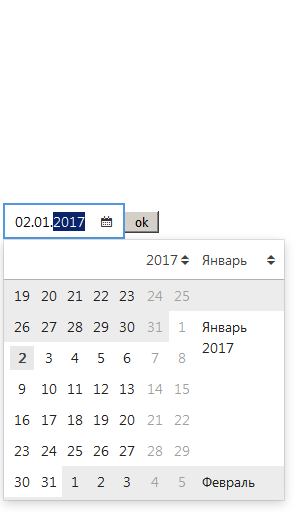
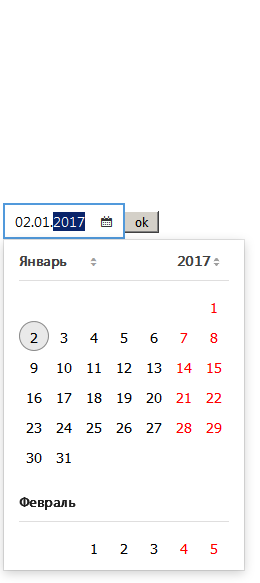
Updated screenshots

diff --git a/components/Calendar/Calendar.js b/components/Calendar/Calendar.js
@@ -28,7 +28,8 @@ export type State = {
   scrollPosition: number,
   months: CalendarMonth[],
   today: CalendarDate,
-  scrollDirection: 1 | -1
+  scrollDirection: 1 | -1,
+  scrollTarget: number
 };
 
 const getTodayDate = () => {
@@ -41,7 +42,13 @@ const getTodayDate = () => {
 };
 
 class Calendar extends React.Component<Props, State> {
-  _timeout;
+  _scrollAnimationTimeout;
+
+  _wheelEndTimeout;
+
+  _monthSelect;
+
+  _yearSelect;
 
   _animation = Animation();
 
@@ -59,13 +66,14 @@ class Calendar extends React.Component<Props, State> {
       scrollPosition: 0,
       months: CalendarUtils.getMonths(initialMonth, initialYear),
       today,
-      scrollDirection: 1
+      scrollDirection: 1,
+      scrollTarget: 0
     };
   }
 
   componentWillUnmount() {
-    if (this._timeout) {
-      clearTimeout(this._timeout);
+    if (this._scrollAnimationTimeout) {
+      clearTimeout(this._scrollAnimationTimeout);
     }
     if (this._animation.inProgress()) {
       this._animation.cancel();
@@ -123,7 +131,7 @@ class Calendar extends React.Component<Props, State> {
 
   _renderMonth([top, month]) {
     const isTopNegative = top <= 0;
-    const isHeaderSticked = isTopNegative && month.height > -top;
+    const isHeaderSticked = isTopNegative && month.height >= -top;
 
     const headerTop = isHeaderSticked
       ? Math.min(-top, month.height - config.MONTH_TITLE_HEIGHT)
@@ -138,6 +146,15 @@ class Calendar extends React.Component<Props, State> {
     const isYearVisible = month.isFirstInYear || isHeaderSticked;
     const yearTop =
       isHeaderSticked && !month.isLastInYear ? -headerTop - top : 0;
+
+    const monthSelectDisabled =
+      top > 40 ||
+      headerTop < 0 ||
+      headerTop >= month.height - config.MONTH_TITLE_HEIGHT;
+
+    const yearSelectDisabled =
+      top > 40 ||
+      (month.isLastInYear && top < -month.height + config.MONTH_TITLE_HEIGHT);
 
     const { minDate, maxDate } = this.props;
     return (
@@ -155,25 +172,25 @@ class Calendar extends React.Component<Props, State> {
         >
           <div className={classes.headerMonth}>
             <DateSelect
-              disabled={top > 25}
+              disabled={monthSelectDisabled}
               width={85}
               type="month"
               value={month.month}
               onChange={m => this.scrollToMonth(m, month.year)}
-              key={top}
+              ref={!monthSelectDisabled ? m => (this._monthSelect = m) : null}
             />
           </div>
           {isYearVisible && (
             <div className={classes.headerYear} style={{ top: yearTop }}>
               <DateSelect
-                disabled={top > 25}
+                disabled={yearSelectDisabled}
                 width={50}
                 type="year"
                 value={month.year}
                 minYear={minDate ? minDate.year : undefined}
                 maxYear={maxDate ? maxDate.year : undefined}
                 onChange={y => this.scrollToMonth(month.month, y)}
-                key={top}
+                ref={!yearSelectDisabled ? y => (this._yearSelect = y) : null}
               />
             </div>
           )}
@@ -207,28 +224,63 @@ class Calendar extends React.Component<Props, State> {
   _handleWheel = (event: SyntheticWheelEvent<HTMLDivElement>) => {
     event.preventDefault();
     const { pixelY } = normalizeWheel(event);
-    this._animation.animate(
-      pixelY,
-      deltaY => this.setState(CalendarUtils.applyDelta(deltaY)),
-      this._handleWheelEnd
+
+    this.setState(({ months, scrollPosition, scrollTarget }) => {
+      const targetPosition = CalendarUtils.calculateScrollPosition(
+        months,
+        scrollPosition,
+        pixelY
+      ).scrollPosition;
+      return { scrollTarget: targetPosition };
+    }, this._handleWheelEnd);
+
+    this._animation.animate(pixelY, deltaY =>
+      this.setState(CalendarUtils.applyDelta(deltaY))
     );
+
+    this._closeSelects();
   };
 
   _handleWheelEnd = () => {
-    if (this._timeout) {
-      clearTimeout(this._timeout);
+    if (this._wheelEndTimeout) {
+      clearTimeout(this._wheelEndTimeout);
     }
-    this._timeout = setTimeout(this._scrollToNearestWeek, 300);
+    this._wheelEndTimeout = setTimeout(this._scrollToNearestWeek, 300);
+  };
+
+  _handleScrollAnimationEnd = () => {
+    if (this._scrollAnimationTimeout) {
+      clearTimeout(this._scrollAnimationTimeout);
+    }
+    this._scrollAnimationTimeout = setTimeout(this._scrollToNearestWeek, 300);
+  };
+
+  _closeSelects = () => {
+    if (this._monthSelect) {
+      this._monthSelect.close();
+    }
+    if (this._yearSelect) {
+      this._yearSelect.close();
+    }
   };
 
   _scrollToNearestWeek = () => {
+    const { scrollTarget, scrollDirection } = this.state;
+
     const trasholdHeight = config.MONTH_TITLE_OFFSET_HEIGHT + config.DAY_HEIGHT;
-    if (this.state.scrollPosition < trasholdHeight) {
+
+    if (scrollTarget < trasholdHeight) {
       let targetPosition = 0;
-      if (this.state.scrollDirection < 0) {
+      if (scrollDirection < 0) {
         targetPosition = trasholdHeight;
       }
-      this._scrollTo(targetPosition);
+
+      this.setState({ scrollTarget: targetPosition }, () => {
+        const amount = scrollTarget - targetPosition;
+        this._animation.animate(amount, deltaY =>
+          this.setState(CalendarUtils.applyDelta(deltaY))
+        );
+      });
     }
   };
 
@@ -236,10 +288,10 @@ class Calendar extends React.Component<Props, State> {
     if (this._animation.inProgress()) {
       this._animation.finish();
     }
-    // After animation finish there could be _handleWheelEnd _timeout
+    // After animation finish there could be _handleScrollAnimationEnd _scrollAnimationTimeout
     // we have to remove it after _animation.finish
-    if (this._timeout) {
-      clearTimeout(this._timeout);
+    if (this._scrollAnimationTimeout) {
+      clearTimeout(this._scrollAnimationTimeout);
     }
 
     const minDate =
@@ -259,6 +311,11 @@ class Calendar extends React.Component<Props, State> {
     const currentMonth = this.state.months[1];
     const diffInMonths =
       currentMonth.month + currentMonth.year * 12 - month - year * 12;
+
+    if (diffInMonths === 0) {
+      this._scrollTo(0);
+      return;
+    }
 
     const maxMonthsToAdd = config.MAX_MONTHS_TO_APPEND_ON_SCROLL;
 

diff --git a/components/Calendar/CalendarUtils.js b/components/Calendar/CalendarUtils.js
@@ -6,27 +6,14 @@ import { CalendarDate } from './CalendarDate';
 import { CalendarMonth } from './CalendarMonth';
 import type { CalendarDateShape, State, Props } from './Calendar';
 
-export const applyDelta = (deltaY: number) => (
-  { scrollPosition, months }: State,
-  { minDate, maxDate }: Props
+export const calculateScrollPosition = (
+  months: CalendarMonth[],
+  scrollPosition: number,
+  deltaY: number
 ) => {
-  let nextScrollPosition = scrollPosition - deltaY;
   let scrollDirection = deltaY > 0 ? 1 : -1;
 
-  const isMinDateExceeded =
-    minDate &&
-    nextScrollPosition > 0 &&
-    minDate.year * 12 + minDate.month > months[0].year * 12 + months[0].month;
-
-  const isMaxDateExceeded =
-    maxDate &&
-    nextScrollPosition < 0 &&
-    maxDate.year * 12 + maxDate.month < months[2].year * 12 + months[2].month;
-
-  if (isMinDateExceeded || isMaxDateExceeded) {
-    return { scrollPosition: 0, scrollDirection };
-  }
-
+  let nextScrollPosition = scrollPosition - deltaY;
   let nextMonths = months;
 
   const firstMonth = months[0];
@@ -50,6 +37,28 @@ export const applyDelta = (deltaY: number) => (
     months: nextMonths,
     scrollDirection
   };
+};
+
+export const applyDelta = (deltaY: number) => (
+  { scrollPosition, months }: State,
+  { minDate, maxDate }: Props
+) => {
+  let scrollDirection = deltaY > 0 ? 1 : -1;
+  const isMinDateExceeded =
+    minDate &&
+    scrollDirection < 0 &&
+    minDate.year * 12 + minDate.month > months[0].year * 12 + months[0].month;
+
+  const isMaxDateExceeded =
+    maxDate &&
+    scrollDirection > 0 &&
+    maxDate.year * 12 + maxDate.month < months[2].year * 12 + months[2].month;
+
+  if (isMinDateExceeded || isMaxDateExceeded) {
+    return { scrollPosition: 0, scrollDirection };
+  }
+
+  return calculateScrollPosition(months, scrollPosition, deltaY);
 };
 
 export const isMonthVisible = (top: number, month: CalendarMonth) => {

diff --git a/gemini/datepicker.js b/gemini/datepicker.js
@@ -10,9 +10,13 @@ gemini.suite('DatePicker', suite => {
       actions.click(find('[class^="DatePicker-root"]'));
     })
     .capture('opened year', (actions, find) => {
-      actions.click(find('[class^="DateSelect-root"]'));
+      actions.click(
+        find('[class^="Calendar-headerYear"] [class^="DateSelect-root"]')
+      );
     })
     .capture('opened month', (actions, find) => {
-      actions.click(find('[class^="DateSelect-root"]:nth-child(3)'));
+      actions.click(
+        find('[class^="Calendar-headerMonth"] [class^="DateSelect-root"]')
+      );
     });
 });

diff --git a/components/DatePicker/Picker.less b/components/DatePicker/Picker.less
@@ -13,8 +13,8 @@
     border: none;
     background-color: white;
     border-top: 1px solid #dfdede;
-    padding-top: 5px;
-    padding-bottom: 6px;
+    padding-top: 7px;
+    padding-bottom: 8px;
     color: @link-color;
     font-size: inherit;
     display: block;
